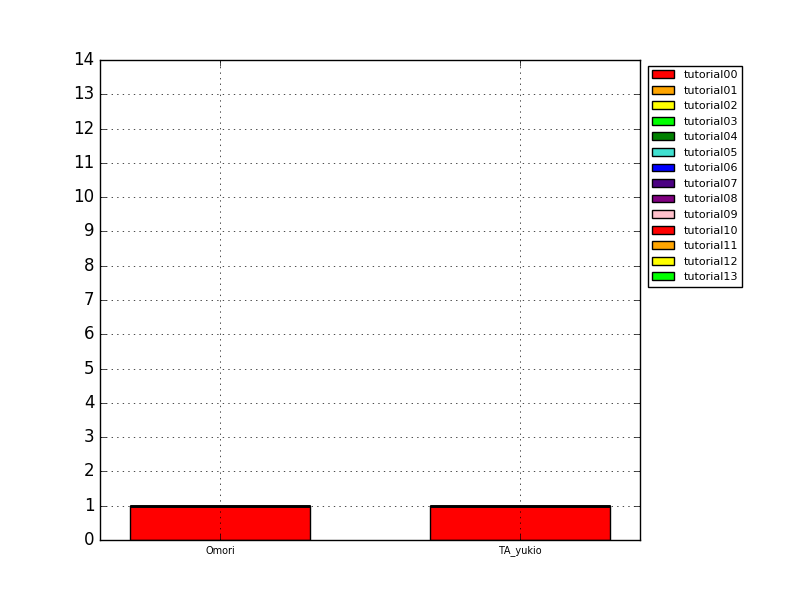
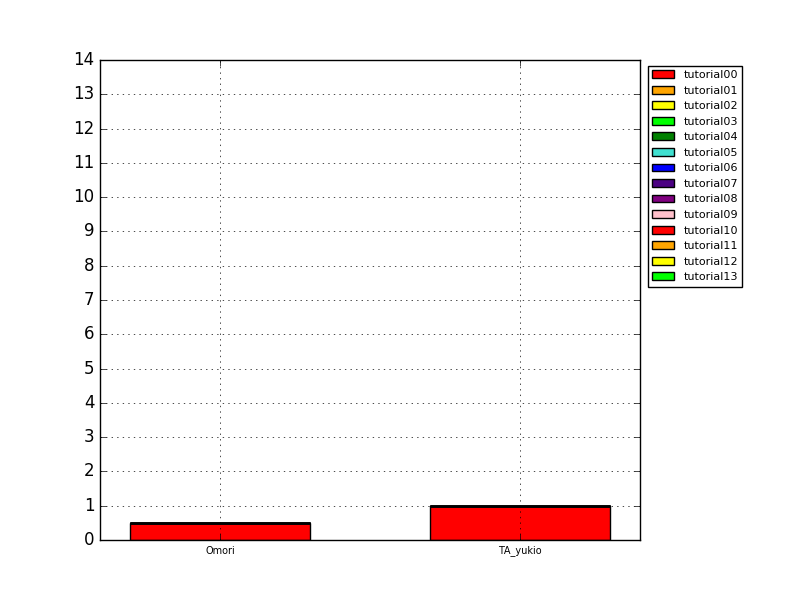
updated progress

Changed region(s): [[0.1562, 0.84, 0.4062, 0.9]]

diff --git a/make_progress.py b/make_progress.py
@@ -4,7 +4,7 @@ import numpy as np
 import matplotlib.pyplot as plt
 
 ignore = ['.git', 'README', 'data', 'script', 'test']
-maxcounts = [1.0, 2.0, 2.0, 1.0, 2.0, 2.0, 2.0, 2.0, 2.0, 1.0, 1.0, 2.0, 2.0, 1.0]
+maxcounts = [2.0, 2.0, 2.0, 1.0, 2.0, 2.0, 2.0, 2.0, 2.0, 1.0, 1.0, 2.0, 2.0, 1.0]
 
 user = list()
 progress = list()
